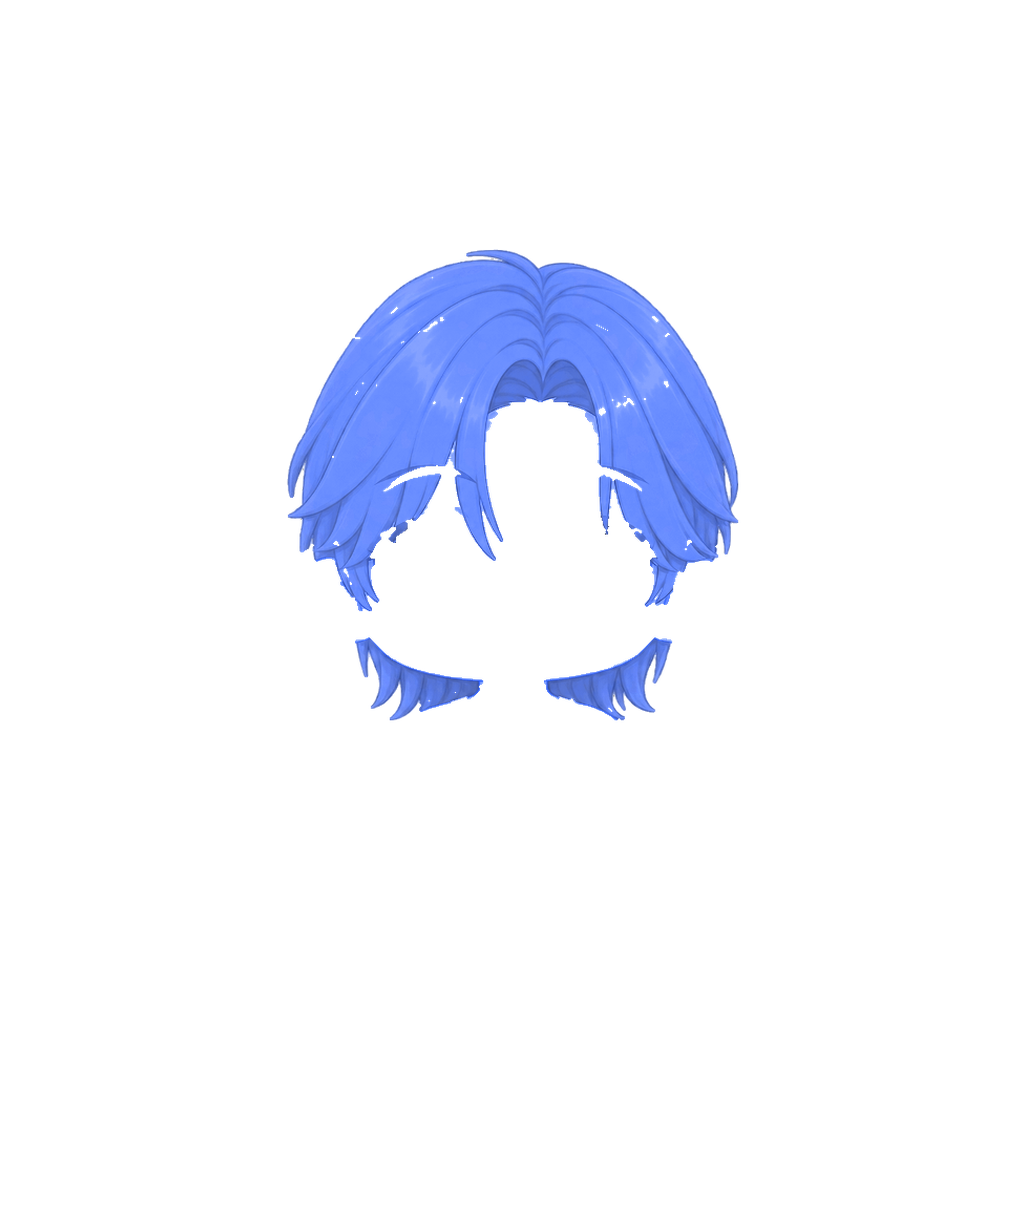
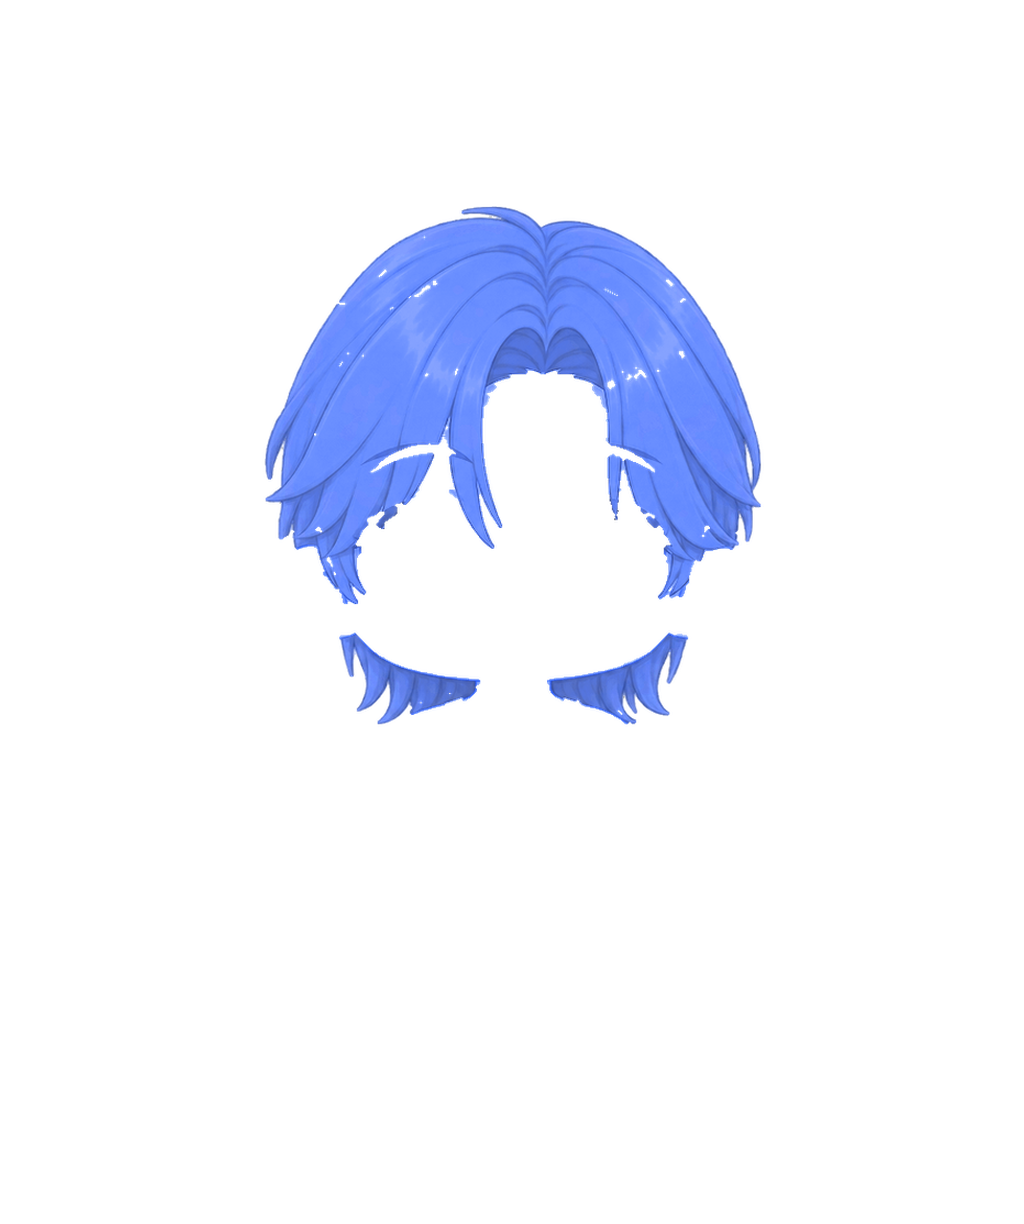
fix(iq2): 男性ロング・スパイキーの横幅を調整
Claude-Session: https://claude.ai/code/session_01NXuBE3U4UAebXMPco3J5UQ

Changed region(s): [[0.25, 0.1552, 0.75, 0.5899]]

diff --git a/app/lib/avatar/catalog.ts b/app/lib/avatar/catalog.ts
@@ -114,7 +114,7 @@ export const OUTFIT_READY = new Set(["knight_default__f","mage_default__f","arch
 export const OUTFIT_HAS_BACK = new Set<string>([]);
 
 /** 画像差し替え時にブラウザキャッシュを無効化するためのバージョン */
-export const ASSET_V = "15";
+export const ASSET_V = "16";
 
 export function resolveLayers(c: AvatarConfig, job: JobKey): { layer: Layer; src: string | null; missing: boolean }[] {
     const g = GEAR[job];
